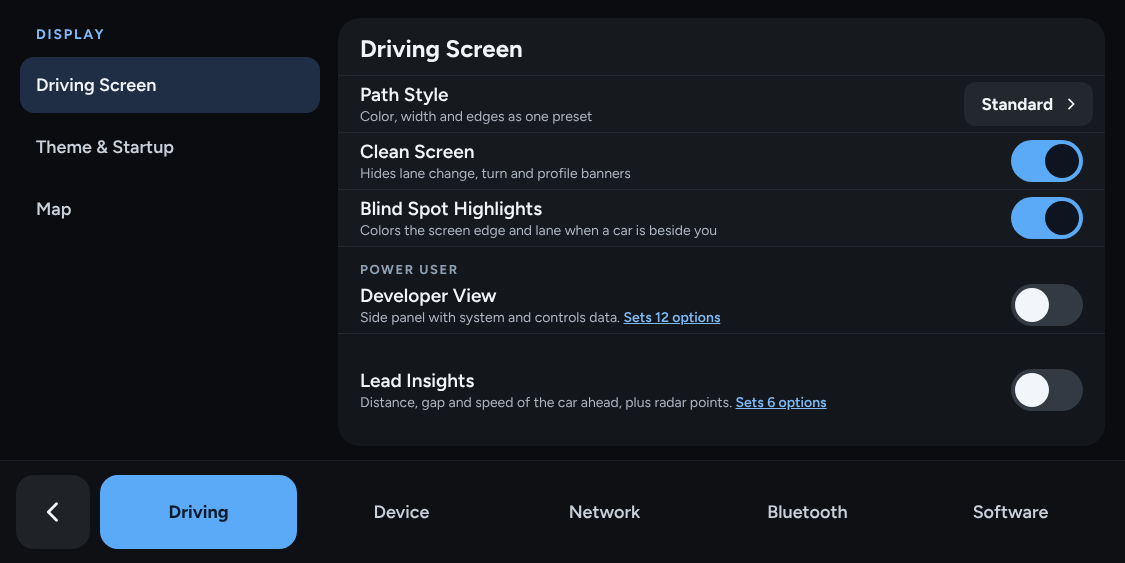
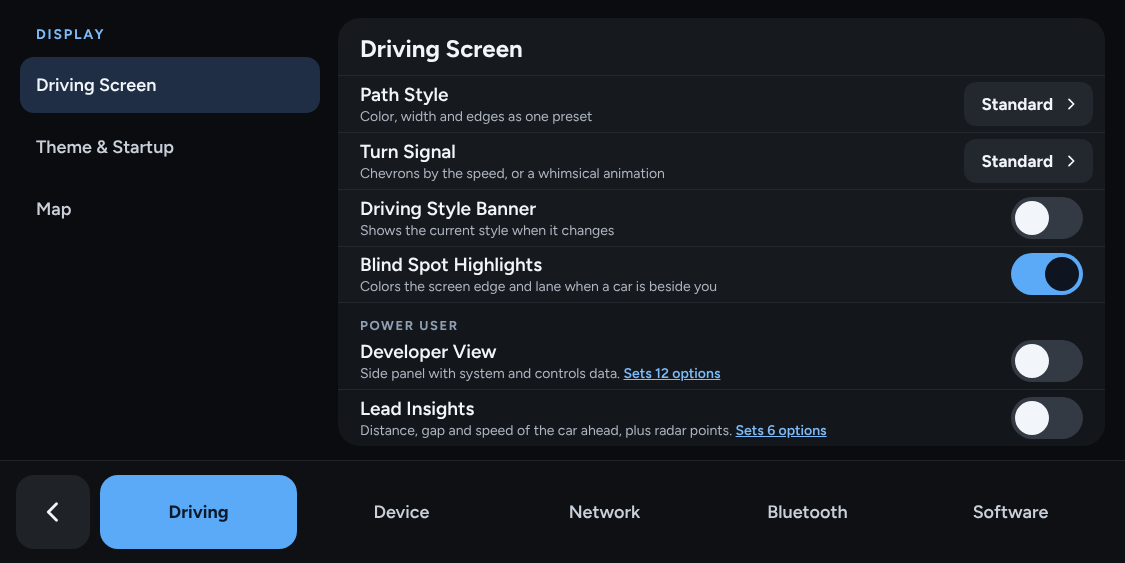
Display: Turn Signal with Whimsy animations
Standard keeps Essentials' chevrons in the speed pill. Whimsy adds
StarPilot's jumping frog, pouncing cat and bouncing ball, drawn by its
own turn signal renderer (frames, timing, blind spot frame) across the
road above the bar, hidden while an alert shows. Chosen from a picker
sheet like Path Style, with a frame of each animation. Mock first:
signalpicker.html and the new Display row.

Claude-Session: https://claude.ai/code/session_01R4pPc2hcx88Dbjjec1p8WC

diff --git a/selfdrive/ui/tandem/design/signalpicker.html b/selfdrive/ui/tandem/design/signalpicker.html
@@ -1,0 +1,31 @@
+<!doctype html>
+<html lang="en">
+<head>
+<meta charset="utf-8">
+<title>Turn Signal picker</title>
+</head>
+<body>
+
+
+<link rel="preconnect" href="https://fonts.googleapis.com">
+<link href="https://fonts.googleapis.com/css2?family=Figtree:wght@400;500;600;700;800&amp;display=swap" rel="stylesheet">
+<style>
+body{margin:0}
+a{color:#7DBBF9}a:hover{color:#A9D3FB}
+</style>
+
+<div style="width: 1125px; height: 563px; box-sizing: border-box; background: #050608; color: #F2F5F9; font-family: Figtree, system-ui, sans-serif; display: flex; flex-direction: column; justify-content: flex-end; overflow: hidden; position: relative;">
+  <div aria-hidden="true" style="position: absolute; left: 20px; right: 20px; top: 18px; height: 110px; border-radius: 22px; background: #0C0E11;"></div>
+  <section aria-label="Turn Signal" style="position: relative; height: 412px; box-sizing: border-box; background: #16191D; border-radius: 26px 26px 0 0; border-top: 1px solid #262B33; padding: 14px 22px 22px; display: flex; flex-direction: column; gap: 16px;">
+    <div style="align-self: center; width: 64px; height: 6px; border-radius: 3px; background: #3A414C;"></div>
+    <div style="display: flex; align-items: center; gap: 14px;">
+      <div style="flex-grow: 1; display: flex; flex-direction: column; gap: 4px;"><h2 style="margin: 0; font-size: 28px; font-weight: 800;">Turn Signal</h2><span style="font-size: 15px; color: #AEB6C2;">Plays beside the speed while a blinker is on</span></div>
+      <a href="display.html" style="text-decoration: none; height: 60px; padding: 0 30px; border-radius: 16px; background: #5AAAF8; color: #0B1A2B; font-size: 18px; font-weight: 800; display: flex; align-items: center;">Done</a>
+    </div>
[1 lines of base64/hex data omitted]
+    <span style="font-size: 14px; color: #8FA0B5;">Whimsy animations cross the road above the bar while you signal; the chevrons by the speed stay.</span>
+  </section>
+</div>
+
+</body>
+</html>

diff --git a/selfdrive/ui/tandem/design/display.html b/selfdrive/ui/tandem/design/display.html
@@ -33,6 +33,13 @@ a{color:#7DBBF9}a:hover{color:#A9D3FB}
         </div>
         <a href="pathstylepicker.html" style="text-decoration: none; display: flex; align-items: center; gap: 10px; height: 44px; padding: 0 14px 0 18px; border: 0; border-radius: 12px; background: #23272E; color: #F2F5F9; font-size: 17px; font-weight: 700;">Standard <svg width="16" height="16" viewBox="0 0 24 24" fill="none" stroke="#F2F5F9" stroke-width="2.6" stroke-linecap="round" stroke-linejoin="round" aria-hidden="true"><path d="M9 5l7 7-7 7"></path></svg></a>
       </div>
+      <div style="display: flex; align-items: center; gap: 16px; padding: 0 12px 0 22px; height: 56px; border-bottom: 1px solid #23272E;">
+        <div style="flex-grow: 1; display: flex; flex-direction: column; gap: 2px; min-width: 0;">
+          <span style="font-size: 19px; font-weight: 600;">Turn Signal</span>
+          <span style="font-size: 14px; color: #AEB6C2;">Chevrons by the speed, or a whimsical animation</span>
+        </div>
+        <a href="signalpicker.html" style="text-decoration: none; display: flex; align-items: center; gap: 10px; height: 44px; padding: 0 14px 0 18px; border: 0; border-radius: 12px; background: #23272E; color: #F2F5F9; font-size: 17px; font-weight: 700;">Standard <svg width="16" height="16" viewBox="0 0 24 24" fill="none" stroke="#F2F5F9" stroke-width="2.6" stroke-linecap="round" stroke-linejoin="round" aria-hidden="true"><path d="M9 5l7 7-7 7"></path></svg></a>
+      </div>
       <div style="display: flex; align-items: center; gap: 16px; padding: 0 22px; height: 56px; border-bottom: 1px solid #23272E;">
         <div style="flex-grow: 1; display: flex; flex-direction: column; gap: 2px; min-width: 0;">
           <span style="font-size: 19px; font-weight: 600;">Driving Style Banner</span>

diff --git a/selfdrive/ui/tandem/settings/display.py b/selfdrive/ui/tandem/settings/display.py
@@ -16,6 +16,7 @@ from openpilot.selfdrive.ui.tandem.overlays import Sheet
 from openpilot.selfdrive.ui.tandem.rows import ListPanel, SectionHeader, SettingRow
 from openpilot.selfdrive.ui.tandem.settings.bundles import DEVELOPER_VIEW, LEAD_INSIGHTS, Bundle
 from openpilot.selfdrive.ui.tandem.settings.store import SettingsStore
+from openpilot.selfdrive.ui.tandem.onroad.extras import WHIMSY_SIGNALS
 
 # Path Style -> the path and lane line params it sets. Standard is upstream's path without the acceleration tint.
 _STANDARD_PATH = {"ModelUI": True, "CustomUI": True, "PathWidth": 6.1, "PathEdgeWidth": 20.0, "LaneLinesWidth": 4.0,
@@ -26,6 +27,11 @@ PATH_STYLES = [
   ("Rainbow", "A rainbow path", _STANDARD_PATH | {"RainbowPath": True}),
   ("Acceleration", "Green when speeding up, amber when slowing", _STANDARD_PATH | {"AccelerationPath": True}),
 ]
+# Turn Signal: (name, SignalAnimation slug). Standard is Essentials' chevrons in the speed pill; the rest are StarPilot's
+# animations, offered as Whimsy. The chevrons stay with any of them.
+SIGNAL_STANDARD = ("Standard", "stock")
+PREVIEW_ROAD = T._hex("132231")   # the picture behind each Turn Signal choice, as the mock
+SIGNAL_STYLES = [SIGNAL_STANDARD] + [(name, slug) for slug, name in WHIMSY_SIGNALS.items()]
 # CameraView values: 0 Auto, 1 Driver, 2 Standard, 3 Wide. Driver is left to upstream's developer screens.
 CAMERA_VIEWS = [("Auto", 0), ("Standard", 2), ("Wide", 3)]
 # (BootLogo slug, name). Tandem's is the Essentials default; StarPilot installs it from its boot logos folder like any other.
@@ -71,6 +77,23 @@ class Display:
 
   def set_path_style(self, index: int) -> None:
     self._store.write(PATH_STYLES[index][2])
+
+  @property
+  def signal_style(self) -> int:
+    """The chosen Turn Signal. Another StarPilot animation (chosen in StarPilot's own settings) isn't drawn by Essentials,
+    so it reads as Standard."""
+    slug = self._store.get_str("SignalAnimation") or "stock"
+    if not self._store.get_bool("CustomThemes"):
+      return 0
+    return next((i for i, (_, s) in enumerate(SIGNAL_STYLES) if s == slug), 0)
+
+  def signal_name(self) -> str:
+    return SIGNAL_STYLES[self.signal_style][0]
+
+  def set_signal_style(self, index: int) -> None:
+    """As StarPilot's own picker: an animation turns on its themes (it reads SignalAnimation only then) and off random ones."""
+    slug = SIGNAL_STYLES[index][1]
+    self._store.write({"SignalAnimation": slug} if slug == "stock" else {"SignalAnimation": slug, "CustomThemes": True, "RandomThemes": False})
 
   @property
   def driving_style_banner(self) -> bool:
@@ -224,10 +247,16 @@ def driving_screen_panel(model: Display, window) -> ListPanel:
                          subtitle="Sets path color, width, edges and lane lines together",
                          actions=[Button("Done", window.dismiss, ButtonStyle.PRIMARY)], on_dismiss=window.dismiss))
 
+  def signal_sheet():
+    window.present(Sheet("Turn Signal", SignalPicker(lambda: model.signal_style, model.set_signal_style),
+                         subtitle="Plays beside the speed while a blinker is on",
+                         actions=[Button("Done", window.dismiss, ButtonStyle.PRIMARY)], on_dismiss=window.dismiss))
+
   dev_get, dev_set = model.bundle(DEVELOPER_VIEW)
   lead_get, lead_set = model.bundle(LEAD_INSIGHTS)
   return ListPanel([
     SettingRow("Path Style", "Color, width and edges as one preset", ValueButton(lambda: PATH_STYLES[model.path_style][0], path_sheet)),
+    SettingRow("Turn Signal", "Chevrons by the speed, or a whimsical animation", ValueButton(model.signal_name, signal_sheet)),
     SettingRow("Driving Style Banner", "Shows the current style when it changes",
                Switch(lambda: model.driving_style_banner, model.set_driving_style_banner)),
     SettingRow("Blind Spot Highlights", "Colors the screen edge and lane when a car is beside you",
@@ -445,6 +474,123 @@ class PathStylePicker(Component):
                 T.FONT_BOLD if chosen else T.FONT_SEMIBOLD, Align.CENTER)
     note = rl.Rectangle(rect.x, rect.y + T.px(214) + T.px(14), rect.width, draw.line_height(T.SIZE_SUBTITLE))
     draw.text(note, "Acceleration tints the path green when speeding up and amber when slowing. Each value can be changed in Tuner Mode.",
+              T.SIZE_SUBTITLE, T.TEXT_TERTIARY)
+
+
+class SignalThumb:
+  """One frame from the middle of a StarPilot signal animation, cropped to the figure, loaded the first time it's drawn."""
+
+  def __init__(self, slug: str):
+    self._slug = slug
+    self._texture = None
+    self._loaded = False
+
+  def _load(self):
+    self._loaded = True
+    from openpilot.selfdrive.ui.onroad.starpilot.turn_signals import BUNDLED_SIGNAL_PATHS, FRAME_PATTERN
+    directory = BUNDLED_SIGNAL_PATHS.get(self._slug)
+    frames = sorted((p for p in directory.glob("*") if FRAME_PATTERN.fullmatch(p.name)),
+                    key=lambda p: int(FRAME_PATTERN.fullmatch(p.name)[1] or 0)) if directory is not None and directory.is_dir() else []
+    if not frames:
+      return
+    image = rl.load_image(str(frames[len(frames) // 2]))
+    try:
+      if image.width > 0 and image.height > 0:
+        rl.image_alpha_crop(image, 0.3)   # as StarPilot's preview: ignore faint motion trails
+        texture = rl.load_texture_from_image(image)
+        if texture.id:
+          rl.set_texture_filter(texture, rl.TextureFilter.TEXTURE_FILTER_BILINEAR)
+          self._texture = texture
+    finally:
+      rl.unload_image(image)
+
+  def draw(self, rect: rl.Rectangle) -> None:
+    if not self._loaded:
+      self._load()
+    if self._texture is None:
+      draw.text(rect, "No preview", T.SIZE_SUBTITLE, T.TEXT_TERTIARY, h=Align.CENTER)
+      return
+    t = self._texture
+    scale = min(rect.width * 0.8 / t.width, rect.height * 0.8 / t.height, 1.5)   # small figures (the ball) stay near their size on the road
+    box = place(rect, t.width * scale, t.height * scale)
+    rl.draw_texture_pro(t, rl.Rectangle(0, 0, t.width, t.height), box, rl.Vector2(0, 0), 0, rl.WHITE)
+
+
+def draw_signal_standard(rect: rl.Rectangle) -> None:
+  """Essentials' signal: the chevrons lit beside the speed in its pill."""
+  size = T.font_px(44)
+  w = T.px(18) + T.px(34) + T.px(10) + draw.text_width("62", size, T.FONT_EXTRABOLD) + T.px(18)
+  pill = place(rect, w, T.px(64))
+  draw.fill(pill, T.BG, T.px(16))
+  body = inset(pill, x=T.px(18))
+  chevrons = rl.Rectangle(body.x, body.y, T.px(34), body.height)
+  draw.icon(rl.Rectangle(chevrons.x, chevrons.y, T.px(20), chevrons.height), "back", draw.alpha(T.ACCENT, 0.35), T.px(22))
+  draw.icon(rl.Rectangle(chevrons.x + T.px(14), chevrons.y, T.px(20), chevrons.height), "back", T.ACCENT, T.px(22))
+  draw.text(inset(body, left=T.px(44)), "62", size, T.TEXT, T.FONT_EXTRABOLD)
+
+
+class SignalPicker(Component):
+  """Standard, then the Whimsy animations, side by side like the path styles: a picture of each with its name under it."""
+  GAP = T.px(14)
+  CARD_H = T.px(214)
+
+  def __init__(self, selected: Callable[[], int], on_change: Callable[[int], None]):
+    super().__init__()
+    self._selected = selected
+    self._on_change = on_change
+    self._pressed: int | None = None
+    self._thumbs = {slug: SignalThumb(slug) for _, slug in SIGNAL_STYLES[1:]}
+
+  def _label_h(self) -> float:
+    return draw.line_height(T.font_px(13)) + T.px(8)
+
+  def preferred_size(self, max_width: float) -> tuple[float, float]:
+    return max_width, self._label_h() + self.CARD_H + T.px(14) + draw.line_height(T.SIZE_SUBTITLE)
+
+  def _cards(self) -> list[rl.Rectangle]:
+    n = len(SIGNAL_STYLES)
+    w = (self._rect.width - self.GAP * (n - 1)) / n
+    y = self._rect.y + self._label_h()
+    return [rl.Rectangle(self._rect.x + i * (w + self.GAP), y, w, self.CARD_H) for i in range(n)]
+
+  def _hit(self, pos) -> int | None:
+    return next((i for i, r in enumerate(self._cards()) if rl.check_collision_point_rec(pos, r)), None)
+
+  def _handle_mouse_press(self, mouse_pos) -> None:
+    self._pressed = self._hit(mouse_pos)
+
+  def _handle_mouse_release(self, mouse_pos) -> None:
+    super()._handle_mouse_release(mouse_pos)
+    hit = self._hit(mouse_pos)
+    if hit is not None and hit == self._pressed and hit != self._selected():
+      self._on_change(hit)
+    self._pressed = None
+
+  def _render(self, rect: rl.Rectangle):
+    selected = self._selected()
+    cards = self._cards()
+    label = rl.Rectangle(rect.x, rect.y, rect.width, draw.line_height(T.font_px(13)))
+    for x, text in ((cards[0].x, "ESSENTIALS"), (cards[1].x, "WHIMSY")):
+      draw.text(rl.Rectangle(x, label.y, rect.width, label.height), text, T.font_px(13), T.TEXT_SECONDARY, T.FONT_BOLD, tracking=T.px(1.6))
+    for i, card in enumerate(cards):
+      chosen = i == selected
+      draw.fill(card, T.SURFACE_4, T.px(20))
+      if chosen:
+        draw.stroke(card, T.ACCENT, T.px(20), T.px(2))
+      elif self.is_pressed and i == self._pressed:
+        draw.pressed(card, T.px(20))
+      body = inset(card, T.px(12))
+      label_h = draw.line_height(T.font_px(18))
+      art = rl.Rectangle(body.x, body.y, body.width, body.height - label_h - T.px(12))
+      draw.fill(art, PREVIEW_ROAD, T.px(12))
+      if i == 0:
+        draw_signal_standard(art)
+      else:
+        self._thumbs[SIGNAL_STYLES[i][1]].draw(art)
+      draw.text(rl.Rectangle(body.x, body.y + body.height - label_h, body.width, label_h), SIGNAL_STYLES[i][0], T.font_px(18), T.TEXT,
+                T.FONT_BOLD if chosen else T.FONT_SEMIBOLD, Align.CENTER)
+    note = rl.Rectangle(rect.x, cards[0].y + self.CARD_H + T.px(14), rect.width, draw.line_height(T.SIZE_SUBTITLE))
+    draw.text(note, "Whimsy animations cross the road above the bar while you signal; the chevrons by the speed stay.",
               T.SIZE_SUBTITLE, T.TEXT_TERTIARY)
 
 

diff --git a/selfdrive/ui/tandem/tests/test_settings.py b/selfdrive/ui/tandem/tests/test_settings.py
@@ -428,6 +428,25 @@ def test_path_style_presets_round_trip():
   assert cache.values["PathWidth"] == 3.0 and not cache.values["AccelerationPath"]
 
 
+def test_turn_signal_whimsy_round_trip():
+  from openpilot.selfdrive.ui.tandem.settings.display import SIGNAL_STYLES, Display
+  from openpilot.selfdrive.ui.onroad.starpilot.turn_signals import BUNDLED_SIGNAL_PATHS
+  store, cache = _store({"SignalAnimation": "stock", "CustomThemes": False, "RandomThemes": True})
+  display = Display(store)
+  assert display.signal_style == 0 and display.signal_name() == "Standard"
+  assert [name for name, _ in SIGNAL_STYLES] == ["Standard", "Jumping frog", "Pouncing cat", "Bouncing ball"]
+  for i, (name, slug) in enumerate(SIGNAL_STYLES):
+    assert slug == "stock" or BUNDLED_SIGNAL_PATHS[slug].is_dir()          # StarPilot ships every Whimsy animation
+    display.set_signal_style(i)
+    assert display.signal_style == i and display.signal_name() == name
+  display.set_signal_style(1)   # as StarPilot's picker: themes on (it reads SignalAnimation only then), random themes off
+  assert cache.values["SignalAnimation"] == "frog" and cache.values["CustomThemes"] and not cache.values["RandomThemes"]
+  display.set_signal_style(0)
+  assert cache.values["SignalAnimation"] == "stock"
+  store, _ = _store({"SignalAnimation": "sequential", "CustomThemes": True})   # chosen in StarPilot's settings: not drawn here
+  assert Display(store).signal_name() == "Standard"
+
+
 def test_driving_style_banner_only_controls_the_profile_message():
   from openpilot.selfdrive.ui.tandem.settings.display import Display
   from openpilot.selfdrive.ui.tandem.settings.tuner import Tuner

diff --git a/selfdrive/ui/tandem/onroad/view.py b/selfdrive/ui/tandem/onroad/view.py
@@ -189,7 +189,18 @@ class EssentialsOnroadView(StarPilotOnroadView):
                left, right, time.monotonic())
 
   def _render_turn_signals(self) -> None:
-    pass   # Essentials' turn signal is in the speed pill
+    """Essentials' turn signal is in the speed pill. A Whimsy animation (Display › Turn Signal) also crosses the road above
+    the bar, drawn by StarPilot's renderer with its frames, timing and blind spot frame; hidden while an alert shows."""
+    if ui_state.starpilot_toggles.get("signal_icons", "stock") not in extras.WHIMSY_SIGNALS:
+      self._turn_signals.close()
+      return
+    c = self._content_rect
+    rl.begin_scissor_mode(int(c.x), int(c.y), int(c.width), int(c.height))
+    try:
+      self._turn_signals.render(c, ui_state, enabled=self.alert_renderer.will_render()[0] is None,
+                                bottom_margin=BAR_HEIGHT + BAR_MARGIN + extras.SIGNAL_GAP)
+    finally:
+      rl.end_scissor_mode()
 
   def _render_speed_card(self):
     """The posted limit StarPilot's speed card would show, as the mock's sign; hidden while the new-limit card asks."""

diff --git a/selfdrive/ui/tandem/onroad/extras.py b/selfdrive/ui/tandem/onroad/extras.py
@@ -35,6 +35,13 @@ RADAR_DOT = T.TEXT
 RADAR_TEXTURE_CENTER = 11.0   # StarPilot's marker texture is 22 px square
 
 
+# ── Turn signal ──
+
+# StarPilot's signal animations Essentials offers as Whimsy, by SignalAnimation slug. Its renderer draws them (view.py).
+WHIMSY_SIGNALS = {"frog": "Jumping frog", "pouncing_cat": "Pouncing cat", "bouncing_ball": "Bouncing ball"}
+SIGNAL_GAP = T.px(12)   # between an animation and the bar
+
+
 # ── Pedals ──
 
 def pedal_levels(params, car_state, starpilot_car_state=None) -> tuple[float, float] | None:

diff --git a/selfdrive/ui/tandem/design/README.md b/selfdrive/ui/tandem/design/README.md
@@ -52,6 +52,7 @@ Open any `.html` file in this folder in a browser. Each screen is 1125×563, the
 | Display › Theme & Startup | [displaytheme.html](displaytheme.html) |
 | Display › Map | [displaymap.html](displaymap.html) |
 | Path Style picker | [pathstylepicker.html](pathstylepicker.html) |
+| Turn Signal picker | [signalpicker.html](signalpicker.html) |
 | Device › Backups | [systembackups.html](systembackups.html) |
 | Device › Storage & Data | [systemstorage.html](systemstorage.html) |
 | Device › Report a Problem | [systemreport.html](systemreport.html) |
@@ -94,6 +95,7 @@ Defaults are in **bold**.
 | Control | Choices | Params |
 | --- | --- | --- |
 | Path Style | **Standard** · Thin · Rainbow · Acceleration | `PathColor` `PathWidth` `PathEdgeWidth` `PathEdgesColor` `LaneLinesColor` `LaneLinesWidth` `RoadEdgesWidth` `RainbowPath` `AccelerationPath` `DynamicPathWidth` |
+| Turn Signal | **Standard** · Whimsy: Jumping frog · Pouncing cat · Bouncing ball | `SignalAnimation` (`stock`, `frog`, `pouncing_cat`, `bouncing_ball`); a Whimsy choice also sets `CustomThemes` on and `RandomThemes` off, as StarPilot's picker does |
 | Driving Style Banner | On · **Off** | `HideDistanceProfileBanner` (inverted) `AdvancedCustomUI` |
 | Blind Spot Highlights | **On** · Off | `BlindSpotPath` `BlindSpotMetrics` `SignalMetrics` `BorderWidth` |
 | Alert Volume | Quiet · **Normal** · Loud | `EngageVolume` `DisengageVolume` `PromptVolume` `PromptDistractedVolume` `RefuseVolume` `WarningSoftVolume` `WarningImmediateVolume` `BelowSteerSpeedVolume` |
@@ -215,6 +217,7 @@ Every sidebar item has its own screen. Sidebar items link to each other, so the 
   - Speed limit sign style: Auto / US / Vienna (`UseVienna`; Auto follows your region).
   - A link to Offline Maps.
 - **Path Style picker:** a sheet with live previews of Standard, Thin, Rainbow and Acceleration.
+- **Turn Signal picker:** Standard (the chevrons in the speed pill) and, under Whimsy, StarPilot's jumping frog, pouncing cat and bouncing ball, each shown by a frame of its animation. A Whimsy animation crosses the road above the bar while signalling, drawn by StarPilot's renderer (its frames, timing and blind spot frame), and hides while an alert shows; the chevrons stay. Other StarPilot animations, chosen in StarPilot's own settings, aren't drawn in Essentials and read as Standard.
 - **Device › Backups:** Back up now; Automatic Off / Weekly / Monthly, which also saves before every update; the saved list with Restore and Delete.
 - **Device › Storage & Data:** a storage bar (drives, maps, models); Delete all drives; Record Driver Camera and Record Microphone, both off by default.
 - **Device › Report a Problem:** six plain-language categories, optional details, "Attach last drive" (logs only), an optional Discord name, and Send.
